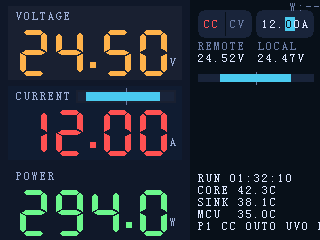
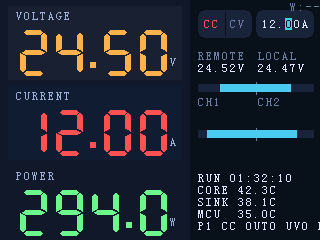
feat(ui): hide channel current value text

diff --git a/firmware/digital/src/ui/mod.rs b/firmware/digital/src/ui/mod.rs
@@ -49,15 +49,9 @@ const CARD_BG_TOP_OFFSET: i32 = 6;
 const CARD_BG_BOTTOM_OFFSET: i32 = 80;
 
 // Right-side layout (logical 320×240 coordinate space).
-const VOLTAGE_PAIR_TOP: i32 = 40;
+const VOLTAGE_PAIR_TOP: i32 = 50;
+const CHANNEL_CURRENT_PAIR_TOP: i32 = 96;
 const TELEMETRY_TOP: i32 = 172;
-
-// Left-side current load bar (mirrored dual-value bar) next to the CURRENT label.
-const CURRENT_BAR_TOP: i32 = 90;
-const CURRENT_BAR_BOTTOM: i32 = 103;
-const CURRENT_BAR_BORDER: i32 = 2;
-const CURRENT_BAR_GAP: i32 = 4;
-const CURRENT_BAR_RIGHT_PAD: i32 = 6;
 
 // Control row layout: CC/CV mode + preset target selector.
 pub(crate) const CONTROL_ROW_TOP: i32 = 10;
@@ -141,7 +135,7 @@ pub enum WifiUiStatus {
 pub struct UiChangeMask {
     pub main_metrics: bool,
     pub voltage_pair: bool,
-    pub current_load_bar: bool,
+    pub channel_currents: bool,
     pub control_row: bool,
     pub telemetry_lines: bool,
     pub wifi_status: bool,
@@ -152,7 +146,7 @@ impl UiChangeMask {
     pub fn is_empty(&self) -> bool {
         !(self.main_metrics
             || self.voltage_pair
-            || self.current_load_bar
+            || self.channel_currents
             || self.control_row
             || self.telemetry_lines
             || self.wifi_status
@@ -210,9 +204,6 @@ pub fn render(frame: &mut RawFrameBuf<Rgb565, &mut [u8]>, data: &UiSnapshot) {
         rgb(0x6EF58C),
     );
 
-    // Compact dual-channel current utilization bar (replaces right-side CH1/CH2 panel).
-    draw_current_load_bar(&mut canvas, data);
-
     draw_control_row(&mut canvas, data);
     draw_voltage_pair(
         &mut canvas,
@@ -220,6 +211,7 @@ pub fn render(frame: &mut RawFrameBuf<Rgb565, &mut [u8]>, data: &UiSnapshot) {
         data.remote_voltage_text.as_str(),
         data.local_voltage_text.as_str(),
     );
+    draw_channel_current_pair(&mut canvas, data);
     draw_telemetry(&mut canvas, data);
 
     render_wifi_status(&mut canvas, data.wifi_status);
@@ -283,15 +275,17 @@ pub fn render_partial(
             160,
             rgb(0x6EF58C),
         );
-
-        // Current load bar lives inside the CURRENT card background.
-        draw_current_load_bar(&mut canvas, curr);
     }
 
     if mask.voltage_pair {
         // 清理右侧电压对所占区域的背景，再重绘标题和条形图。
         canvas.fill_rect(
-            Rect::new(190, VOLTAGE_PAIR_TOP, LOGICAL_WIDTH, 96),
+            Rect::new(
+                190,
+                VOLTAGE_PAIR_TOP,
+                LOGICAL_WIDTH,
+                CHANNEL_CURRENT_PAIR_TOP,
+            ),
             rgb(0x080f19),
         );
         let remote_text = curr.remote_voltage_text.as_str();
@@ -299,8 +293,13 @@ pub fn render_partial(
         draw_voltage_pair(&mut canvas, curr, remote_text, local_text);
     }
 
-    if mask.current_load_bar {
-        draw_current_load_bar(&mut canvas, curr);
+    if mask.channel_currents {
+        // 右侧两路电流通道信息：先擦除对应背景区域，再重绘标签与条形图。
+        canvas.fill_rect(
+            Rect::new(190, CHANNEL_CURRENT_PAIR_TOP, LOGICAL_WIDTH, TELEMETRY_TOP),
+            rgb(0x080f19),
+        );
+        draw_channel_current_pair(&mut canvas, curr);
     }
 
     if mask.control_row {
@@ -423,49 +422,15 @@ fn draw_voltage_pair(canvas: &mut Canvas, data: &UiSnapshot, left_value: &str, r
     );
 }
 
-fn draw_current_load_bar(canvas: &mut Canvas, data: &UiSnapshot) {
-    let label_w = small_text_width("CURRENT", 0);
-    let outer_left = 16 + label_w + CURRENT_BAR_GAP;
-    let outer_right = CARD_BG_RIGHT - CURRENT_BAR_RIGHT_PAD;
-    if outer_right - outer_left <= CURRENT_BAR_BORDER * 2 + 8 {
-        return;
-    }
-
-    let outer = Rect::new(outer_left, CURRENT_BAR_TOP, outer_right, CURRENT_BAR_BOTTOM);
-    canvas.fill_rect(outer, rgb(0x192031));
-
-    let inner = Rect::new(
-        outer_left + CURRENT_BAR_BORDER,
-        CURRENT_BAR_TOP + CURRENT_BAR_BORDER,
-        outer_right - CURRENT_BAR_BORDER,
-        CURRENT_BAR_BOTTOM - CURRENT_BAR_BORDER,
+fn draw_channel_current_pair(canvas: &mut Canvas, data: &UiSnapshot) {
+    // Only show CH1/CH2 labels + mirror bar; numeric current values are intentionally omitted.
+    draw_pair_header(canvas, ("CH1", ""), ("CH2", ""), CHANNEL_CURRENT_PAIR_TOP);
+    draw_mirror_bar(
+        canvas,
+        CHANNEL_CURRENT_PAIR_TOP + 34,
+        data.ch1_current / 5.0,
+        data.ch2_current / 5.0,
     );
-    canvas.fill_rect(inner, rgb(0x1c2638));
-
-    let center = (inner.left + inner.right) / 2;
-    canvas.draw_line(
-        center,
-        outer.top - 2,
-        center,
-        outer.bottom + 1,
-        rgb(0x6d7fa4),
-    );
-
-    let half_width = (inner.right - inner.left) / 2;
-    let left_fill = (half_width as f32 * (data.ch1_current / 5.0).clamp(0.0, 1.0) + 0.5) as i32;
-    let right_fill = (half_width as f32 * (data.ch2_current / 5.0).clamp(0.0, 1.0) + 0.5) as i32;
-    if left_fill > 0 {
-        canvas.fill_rect(
-            Rect::new(center - left_fill, inner.top, center, inner.bottom),
-            rgb(0x4cc9f0),
-        );
-    }
-    if right_fill > 0 {
-        canvas.fill_rect(
-            Rect::new(center, inner.top, center + right_fill, inner.bottom),
-            rgb(0x4cc9f0),
-        );
-    }
 }
 
 fn small_text_width(text: &str, spacing: i32) -> i32 {
@@ -524,20 +489,28 @@ fn draw_control_row(canvas: &mut Canvas, data: &UiSnapshot) {
     let width = small_text_width(target, 0);
     let value_x = CONTROL_VALUE_PILL_RIGHT - 4 - width;
 
-    // Selected digit: highlight background (centered) instead of underline.
+    // Selected digit: highlight background (digit bbox + padding) instead of underline.
     let glyph = SMALL_FONT.width() as i32;
     let idx = match data.adjust_digit {
         AdjustDigit::Ones => 1,
         AdjustDigit::Tenths => 3,
         AdjustDigit::Hundredths => 4,
     };
+    // SmallFont digits live in a stable 5×8 bbox at (x=0..4, y=2..9) inside
+    // the 8×12 cell. Use that bbox (not the full cell) so the highlight
+    // doesn't bleed into neighboring characters when padding is applied.
+    let digit_bbox_min_x = 0;
+    let digit_bbox_max_x = 4;
+    let digit_bbox_min_y = 2;
+    let digit_bbox_max_y = 9;
     let highlight_pad_x = 1;
-    let highlight_pad_y = 1;
+    let highlight_pad_y = 2;
+    let cell_x = value_x + idx * glyph;
     let highlight = Rect::new(
-        value_x + idx * glyph - highlight_pad_x,
-        CONTROL_TEXT_Y - highlight_pad_y,
-        value_x + (idx + 1) * glyph + highlight_pad_x,
-        CONTROL_TEXT_Y + SMALL_FONT.height() as i32 + highlight_pad_y,
+        cell_x + digit_bbox_min_x - highlight_pad_x,
+        CONTROL_TEXT_Y + digit_bbox_min_y - highlight_pad_y,
+        cell_x + digit_bbox_max_x + 1 + highlight_pad_x,
+        CONTROL_TEXT_Y + digit_bbox_max_y + 1 + highlight_pad_y,
     );
     canvas.fill_rect(highlight, rgb(0x4cc9f0));
 

diff --git a/firmware/digital/src/main.rs b/firmware/digital/src/main.rs
@@ -852,7 +852,7 @@ impl TelemetryModel {
             if prev.ch1_current_text != current.ch1_current_text
                 || prev.ch2_current_text != current.ch2_current_text
             {
-                mask.current_load_bar = true;
+                mask.channel_currents = true;
             }
 
             if prev.active_mode != current.active_mode
@@ -873,7 +873,7 @@ impl TelemetryModel {
             // initial layout is fully drawn.
             mask.main_metrics = true;
             mask.voltage_pair = true;
-            mask.current_load_bar = true;
+            mask.channel_currents = true;
             mask.control_row = true;
             mask.telemetry_lines = true;
             mask.wifi_status = true;

diff --git a/docs/interfaces/main-display-ui.md b/docs/interfaces/main-display-ui.md
@@ -8,12 +8,9 @@
 
 ## 需求说明
 
-- 右列 control row（模式 + 目标值）移动到 `REMOTE/LOCAL` 电压区块上方。
-- 右列 `CH1/CH2`：**不再显示**（不显示标签、不显示数值、不显示条形图）。
-- 右列 `REMOTE/LOCAL` 电压区块整体下移，使其与右列 status lines 之间的间隔保持“正常间隔”。
-- 右列 status lines（`RUN/CORE/SINK/MCU/P1 ...`）移动到右侧区域底部，底部留合理边距。
-- 将“电流能量条”（原右列 CH1/CH2 条形图）移动到左列 `CURRENT` label 右侧，并根据可用空间自适应宽度；同时右列移除 `CH1/CH2` 标签与条形图。
-- 除以上要点外，其余布局与信息保持不变（左列三大读数、右列 status lines 等）。
+- 右列 `CH1/CH2`：**只删除电流数值文本**（不再显示 `xx.xxA`），保留 `CH1/CH2` 标签与条形图。
+- 右列 `REMOTE/LOCAL` 电压区块整体**下移**，使其与 `CH1/CH2` 电流区块之间的间隔缩小到“正常间隔”。
+- 除以上要点外，其余布局与信息保持不变（control row、左列三大读数、右列 status lines 等）。
 
 ## Panel Constraints
 
@@ -36,7 +33,6 @@
 | Voltage digits | `#FFB347` | 24.50 (decimal dot rendered manually) | SevenSegNumFont (32×50) | 左区 80 px 高度段 #1：数字/单位右对齐至 x=170，绘制区域 `(24,28)-(170,72)` |
 | Voltage unit | `#9AB0D8` | V | SmallFont | 基线 y=72，与数字紧贴 |
 | Current label | `#9AB0D8` | CURRENT | SmallFont | (16,90) |
-| Current load bar | Outer `#192031` + track `#1C2638` | 两路电流“能量条”（镜像双值条） | — | 左列 `CURRENT` label 右侧：外框 `(76,90)-(176,103)`；内轨道 `(78,92)-(174,101)`；中心刻度 x=126 |
 | Current digits | `#FF5252` | 12.00 | SevenSegNumFont | 左区 80 px 高度段 #2：区域 `(24,108)-(170,152)`，右对齐至 x=170 |
 | Current unit | `#9AB0D8` | A | SmallFont | 基线 y=152，与数字相连 |
 | Power label | `#9AB0D8` | POWER | SmallFont | (16,170) |
@@ -50,7 +46,7 @@
 | 左列电压/电流 | 固定 `DD.dd`（4 个数字 + 1 个小数点），四舍五入到 0.01 → 例如 `24.50`, `03.20` | 固定宽度用于布局稳定；两位整数不足时左侧补零。异常/超出显示能力时显示 `99.99`。 |
 | 左列功率 | 固定 `DDD.d`（4 个数字 + 1 个小数点），四舍五入到 0.1 → 例如 `294.0`, `001.1` | 固定宽度用于布局稳定；三位整数不足时左侧补零。异常/超出显示能力时显示 `999.9`。 |
 | 右列远/近端电压 | 固定 `DD.dd` + 单位（例如 `24.52V`），四舍五入到 0.01 | 保持与左侧主读数一致的总位数策略以避免“空间忽大忽小”的观感。 |
-| 右列通道电流 | 不显示（不显示 `CH1/CH2`、不显示数值、不显示条形图） | 两路电流负载以左列 `CURRENT` label 右侧的“能量条”统一表达。 |
+| 右列通道电流 | 显示 `CH1/CH2` 标签 + 条形图，不显示数值文本（不显示 `xx.xxA`） | 只删除数值文本，其它布局不变。 |
 | 温度 | 0 或 1 位小数（`37°` 或 `37.8°`），根据传感器噪声门限自动选择 | 单位符号与数值之间保留 1 空格。 |
 | 运行时间、能量 | 现有格式 (`HH:MM:SS`, `125.4Wh`) | 如需更多精度，在右列列表中扩展即可。 |
 
@@ -59,11 +55,23 @@
 | Pair | Payload | Font | Color | Placement |
 | --- | --- | --- | --- | --- |
 | Control row | 模式切换（CC/CV）+ 当前 preset 目标值（单位随模式变更） | SmallFont | 背景 `#1C2638`；CC 文本 `#FF5252`；CV 文本 `#FFB347`；数值 `#DFE7FF`；选中位高亮背景 `#4CC9F0`（高亮位字符改为深色） | 行背景：`y=10..38`；MODE pill `(198,10)-(252,38)`；VALUE pill `(256,10)-(314,38)`；默认选中十分位（0.1），不显示“步长”文本 |
-| Voltage pair | 左列 REMOTE `24.52 V`，右列 LOCAL `24.47 V` | 标签 SmallFont；数值 SmallFont（字符间距 0，强制 4 位数格式） | 文本 `#DFE7FF`、标签 `#6D7FA4` | 左列起点 (198,40)，右列起点 (258,40) |
-| Voltage mirror bar | 中心 0 V，左右各 55 px 行程（上限 40 V） | — | 轨道 `#1C2638`，填充与两侧条统一使用 `#4CC9F0`，中心刻度 `#6D7FA4` | 长条 `(198,74)-(314,81)`，中心 x=256 |
+| Voltage pair | 左列 REMOTE `24.52 V`，右列 LOCAL `24.47 V` | 标签 SmallFont；数值 SmallFont（字符间距 0，强制 4 位数格式） | 文本 `#DFE7FF`、标签 `#6D7FA4` | 左列起点 (198,50)，右列起点 (258,50) |
+| Voltage mirror bar | 中心 0 V，左右各 55 px 行程（上限 40 V） | — | 轨道 `#1C2638`，填充与两侧条统一使用 `#4CC9F0`，中心刻度 `#6D7FA4` | 长条 `(198,84)-(314,91)`，中心 x=256 |
+| Channel current pair | 左列 CH1，右列 CH2（仅标签） | 标签 SmallFont | 标签 `#6D7FA4` | 左列起点 (198,96)，右列起点 (258,96) |
+| Channel current mirror bar | 中心 0 A，左右各 55 px 行程（上限 5 A） | — | 轨道 `#1C2638`，填充 `#4CC9F0`，中心刻度 `#6D7FA4` | 长条 `(198,130)-(314,137)`，中心 x=256 |
 | Status lines (5) | 运行时间 + 温度 + 状态行（例如 `RUN 01:32:10`、`CORE 42.3C`、`SINK 38.1C`、`MCU 35.0C`、`P1 CC OUT0 UV0 RDY`） | SmallFont | `#DFE7FF` | Right block 底部对齐：Top-left at `(198,172)` 起，每行 +12px，底边距约 12px |
 
 > Mirror bars：中心刻度标注 `0`，左半对应该对数据中的左值，右半对应右值。左/右填充长度 = `min(value / limit, 1.0) * half_width`，其中电压上限 40 V，电流上限 5 A。
+
+### Control row：选中位背景高亮（固定宽度字体，禁止“视觉居中”偏移）
+
+- 目标值文本固定为 6 字符：`DD.ddU`（例如 `12.00A`、`24.50V`），使用 `SmallFont`（8×12）绘制，字符间距为 0（固定宽度字形单元格）。
+- 目标值文本在 VALUE pill 内 **右对齐**，右内边距 **4 px**；因此该 6 字符串宽度固定 48 px，用于保持布局稳定。
+- 选中位高亮背景（颜色 `#4CC9F0`）以 `SmallFont` 数字字形的稳定 bbox 为基准绘制：
+  - 数字字形 bbox：`x=0..4`、`y=2..9`（5×8）
+  - 高亮背景内边距：左/右各 **1 px**，上/下各 **2 px**（得到 7×12 的高亮块；避免 padding 溢出到相邻字符）
+- 选中位字符本身改为深色（推荐 `#080F19`），其余字符保持 `#DFE7FF`。
+- 选中位索引（按 `DD.ddU` 的字符索引）：`ones=1`、`tenths=3`、`hundredths=4`。
 
 ## Color Palette
 
@@ -98,13 +106,14 @@ All fonts were downloaded from http://rinkydinkelectronics.com/r_fonts.php (Publ
    - Sample at 1 kHz, low-pass (α = 0.3), refresh UI at 20 Hz.
    - When a limit is exceeded, flash a 2 px strip along the top edge of the affected card using `#FF5252` (over) or `#6EF58C` (under).
    - Decimal dot: draw a filled 6×6 square at `y = glyph_baseline − 8` so it lines up with the mock.
-   - Current load bar (left column) is a compact representation of channel utilization; width MUST adapt to the space between `CURRENT` label and the right padding of the left column.
+   - 左侧 `CURRENT` 仅显示合计电流主读数（数值 + 单位）；两路通道电流以右列 `CH1/CH2` 的镜像条形图表达，不显示数值文本。
 2. **Right status**
    - Voltage bars = `clamp(V_measured / V_range)` with default `V_range = 40 V`.
    - **Control row** replaces the legacy “SET I” line:
      - Shows the **current preset** `mode` (`CC`/`CV`) and the **current preset target** (unit follows the active mode).
      - Target value is sourced from the digital preset model (not measured values), right-aligned to x=314.
      - The selected adjustment digit MUST be shown with a special background highlight (do not rely on underline).
+     - Highlight padding: **1 px** left/right, **2 px** top/bottom around the selected `SmallFont` digit bbox (`x=0..4`, `y=2..9`).
    - Runtime + energy update at 2 Hz, temperature at 5 Hz. Keep color semantics fixed for muscle memory.
 
 ## Interaction Hooks
